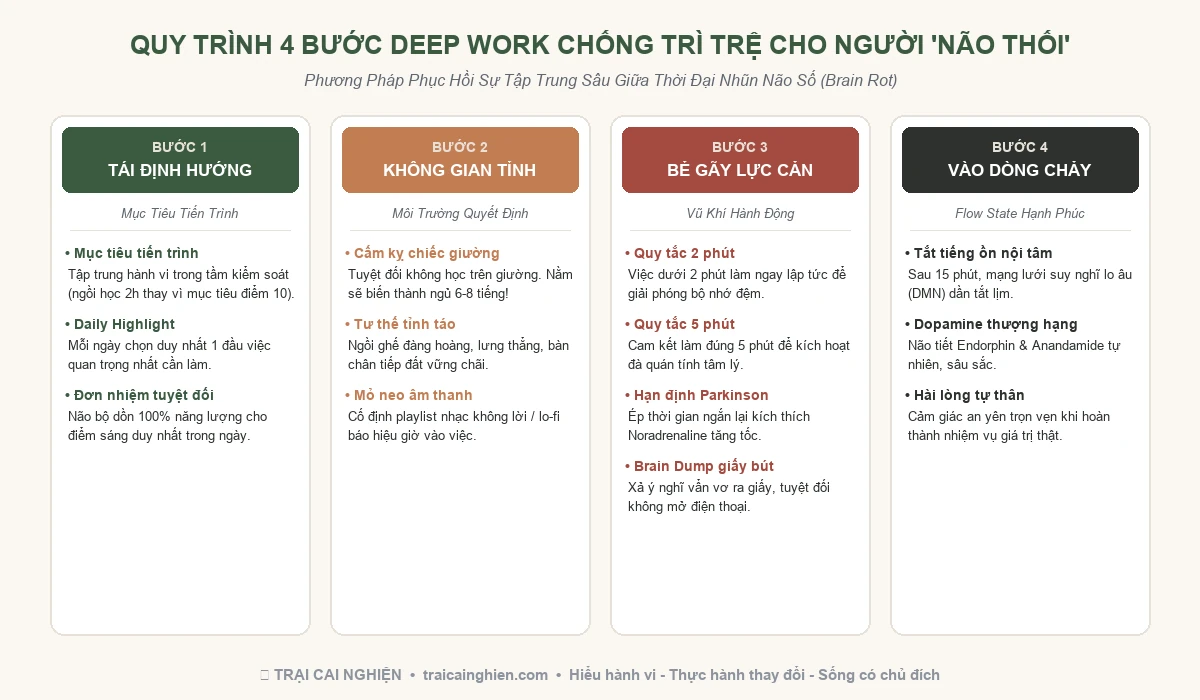
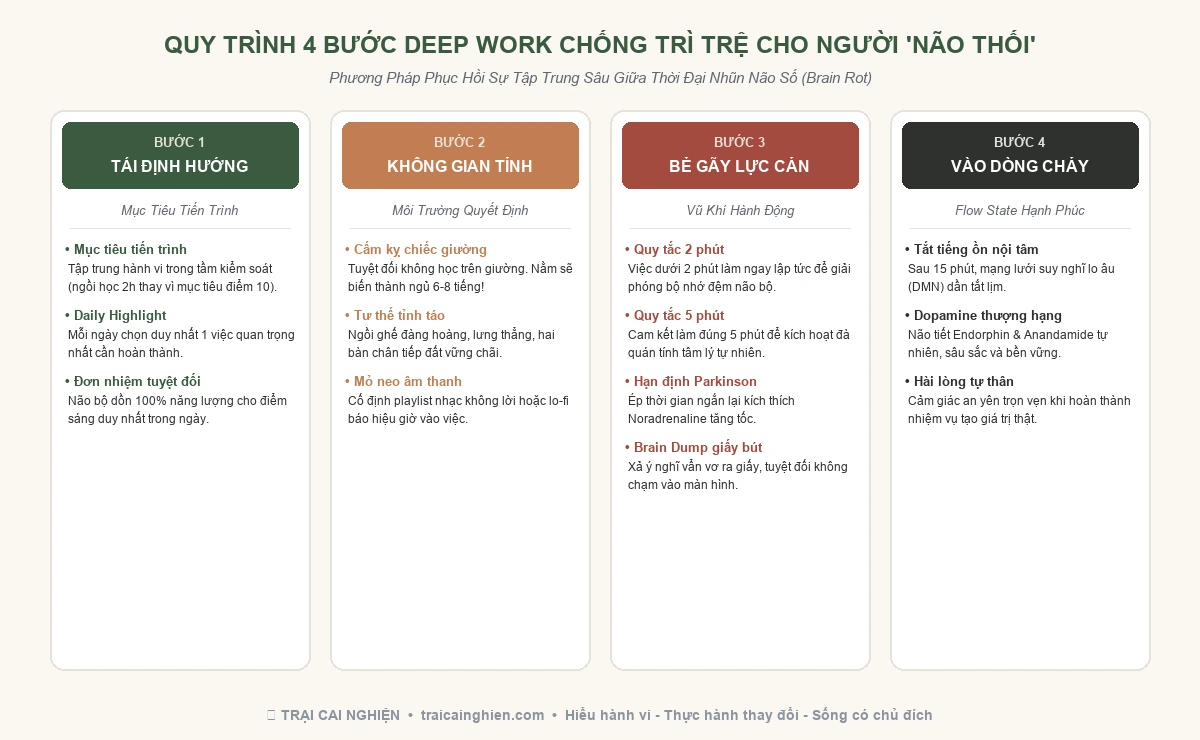
fix(visual): fix clipped infographic typography and apply authentic Zen watercolor thumbnail with cache-busted paths

diff --git a/src/data/articles.ts b/src/data/articles.ts
@@ -21,7 +21,7 @@ const rawArticles: Article[] = [
   "slug": "tang-hieu-suat-khi-nao-bi-thoi-deep-work-chong-tri-tre",
   "title": "Tăng Hiệu Suất Khi Não Bị 'Thối': Cách Deep Work Chống Trì Trệ",
   "excerpt": "Ngồi vào bàn 5 phút đã vô thức quẹt TikTok đến trưa? Bạn không thiếu ý chí, não bạn đang mắc kẹt trong bẫy 'bận rộn ảo' và nhũn não số. Đây là quy trình 4 bước Deep Work thực chiến...",
-  "thumbnail": "/images/articles/tang-hieu-suat-deep-work-trai-cai-nghien.webp",
+  "thumbnail": "/images/articles/tang-hieu-suat-deep-work-zen-watercolor.webp",
   "pillar": "Trụ cột 2: Lấy lại sự tập trung & Giải phóng xao nhãng",
   "pillarTag": "LayLaiSuTapTrung",
   "categories": [
@@ -40,7 +40,7 @@ const rawArticles: Article[] = [
   ],
   "date": "01/11/2026",
   "readTime": "12 phút đọc",
-  "content": "Chắc hẳn đã không dưới một lần bạn từng nếm trải cảm giác cay đắng này:\n\nBạn thức dậy với một quyết tâm hừng hực. Bạn dọn dẹp mặt bàn phẳng phiu, pha một cốc cà phê thơm lừng, mở cuốn sổ tay mới tinh và nắn nót viết ra bản kế hoạch 5 việc cần làm trong ngày. Bạn tự nhủ: *“Hôm nay nhất định mình sẽ làm việc như một con quái vật hiệu suất!”*\n\nThế nhưng, vừa ngồi vào ghế được 3 phút, bạn với tay lấy điện thoại định mở ứng dụng ghi chú để kiểm tra lại đầu việc. \n\nVà rồi, một phép thuật đen tối của thời đại số đã xảy ra: Ngón tay cái của bạn, theo một phản xạ cơ bắp vô thức đến rợn người, không hề bấm vào app ghi chú. Nó trượt nhẹ sang góc màn hình và bấm thẳng vào biểu tượng TikTok hoặc Facebook Reels. \n\nBạn xem một video ngắn về một chú mèo hài hước. Tiếp theo là một đoạn cắt phim hành động giật gân. Kế đến là màn hình chia đôi: nửa trên là một đoạn tấu hài châm biếm, nửa dưới là trò chơi *Subway Surfers* chạy lắt léo với âm thanh dồn dập. Bạn tự nhủ: *“Xem nốt video này thôi rồi làm.”*\n\nNhưng khi bạn giật mình ngước mắt lên nhìn đồng hồ: **Đã 11h45 trưa.** \n\nCốc cà phê trên bàn đã nguội ngắt từ bao giờ. Màn hình máy tính đã tự động tắt ngấm chuyển sang chế độ ngủ. Bụng bạn bắt đầu đói cồn cào, mắt cay xè, và một cảm giác nhục nhã, tội lỗi, tự ghét bỏ bản thân bắt đầu dâng lên ngập tràn trong lồng ngực:\n\n*“Tại sao mình lại tệ hại đến mức này? Tại sao một việc cỏn con như ngồi yên làm việc 1 tiếng đồng hồ mà mình cũng không làm nổi? Não mình bị thối rồi hay sao?”*\n\nNếu bạn đang ở trong tình trạng đó, Trại Cai Nghiện muốn ôm lấy bạn và nói một câu thành thật: **Bạn không hề đơn độc, và bạn không hề bị tâm thần hay suy đồi đạo đức.** \n\nChúng ta đang sống trong kỷ nguyên của đại dịch **\"Brain Rot\" (Nhũn não số)** — nơi mà các thuật toán triệu đô đã biến bộ não của một thế hệ trở nên nghiện ngập những kích thích dopamine rẻ tiền, mất khả năng chịu đựng sự buồn chán và rơi vào trạng thái trì trệ kinh niên.\n\nNhưng bạn không thể để sự nhũn não này hủy hoại tương lai của mình. Bài viết này không giáo điều, không sáo rỗng. Đây là bản cẩm nang thực chiến giúp bạn **tăng vọt hiệu suất làm việc sâu (Deep Work) ngay cả khi não bạn đang ở trạng thái “thối” nhất.**\n\n---\n\n### 1. Sự Thật Trần Trụi: \"Không Có Cái Quản Lý Nào Khổ Bằng Quản Lý Chính Mình\"\n\nRất nhiều người trẻ mơ ước được nghỉ việc văn phòng để ra ngoài làm tự do (Freelance) hoặc tự khởi nghiệp, bởi vì họ căm ghét cảm giác bị quản lý, bị soi mói deadline và bị áp đặt quy trình. Họ nghĩ rằng: *“Chỉ cần được tự làm chủ thời gian của mình, mình sẽ bùng nổ năng suất và sống tự do tự tại!”*\n\nThế nhưng, những ai đã từng trải qua giai đoạn tự làm tự ăn đều thấm thía một sự thật trớ trêu: **Cái giá của sự tự do là một thứ kỷ luật sắt đá và cô độc hơn gấp mười lần.**\n\nKhi bạn làm sếp quản lý người khác, bạn sợ nhất loại nhân viên nào?\n* Nhân viên lười biếng, nước đến chân mới nhảy?\n* Nhân viên hay chống đối, cãi bướng, thái độ lồi lõm?\n* Nhân viên hời hợt, làm việc cợt nhả, chuyên gia né tránh việc khó?\n\nVà khi bạn tự bước ra làm chủ chính mình, bạn bàng hoàng nhận ra: **Bản thân bạn hội tụ đủ 100% tất cả những thói hư tật xấu của đứa nhân viên tồi tệ nhất!**\n\nBạn tự giao việc cho mình lúc 8h sáng, và chính bạn là đứa tự thương lượng để dời đến 10h trưa. Bạn tự đặt mục tiêu tuần này phải xong dự án, và chính bạn là đứa tự ký giấy cho phép mình nằm dài lướt điện thoại vì *“hôm nay trời âm u quá không có cảm hứng”*. \n\nBạn không thể sa thải chính mình. Bạn cũng không thể trừ lương chính mình. Và đó là lý do vì sao hầu hết những người thất bại trong việc tự quản lý bản thân đều rơi vào chiếc bẫy nguy hiểm nhất của tâm lý: **Bận rộn ảo (Shallow Work).**\n\n---\n\n### 2. Hai Chiếc Bẫy Tâm Lý Đang Bóp Nghẹt Năng Lực Của Bạn\n\nTrước khi tìm kiếm phương thuốc, chúng ta phải bắt đúng bệnh. Sự trì trệ của bạn không phải do thiếu kỹ năng, mà xuất phát từ hai chiếc bẫy vô hình sau đây:\n\n#### Bẫy số 1: Hiện tượng \"Bận rộn ảo\" (The Shallow Work Illusion)\nDấu hiệu nhận biết điển hình của một người đang mắc bẫy này là gì? Họ luôn miệng than thở với bạn bè hoặc đăng story lên mạng xã hội: *“Dạo này bận vỡ mặt”, “Bận không kịp thở”, “Trăm công nghìn việc”*.\n\nNhưng nếu nhìn kỹ vào một ngày của họ, bạn sẽ thấy một tấn bi kịch:\n* Họ vẫn ngồi vào bàn làm việc đúng giờ.\n* Họ vẫn mở laptop, mở sách vở ra trước mặt.\n* Nhưng 80% năng lượng và thời gian của họ lại dồn vào những việc râu ria ngoài rìa: chỉnh sửa phông chữ cho đẹp, sắp xếp lại các thư mục trên màn hình máy tính, dọn dẹp mặt bàn học lần thứ ba trong ngày, lướt qua lướt lại hòm thư email, hoặc tìm kiếm tài liệu về lưu vào máy nhưng không bao giờ đọc đến.\n\nKhoa học thần kinh gọi đây là **Cơ chế phòng vệ ngụy tạo (Subconscious Avoidance)**. Bộ não của bạn rất sợ những công việc đòi hỏi tư duy sâu (như viết một bản kế hoạch kinh doanh, giải quyết một bài toán hóc búa, viết một bài luận dài). Những việc đó gây đau đớn cho não vì tiêu tốn lượng lớn năng lượng glucose. \n\nĐể trốn tránh cơn đau đó mà không bị cảm giác tội lỗi cắn rứt, não bộ sẽ tự động \"bày trò\" cho bạn làm những việc vụn vặt. Nó tạo ra một ảo tưởng ngọt ngào rằng: *“Nhìn xem, tôi vẫn đang ngồi làm việc chăm chỉ đấy chứ!”*. Nhưng đến cuối ngày, khối lượng công việc thực sự tạo ra giá trị vẫn bằng con số 0 tròn trĩnh.\n\n#### Bẫy số 2: Vòng lặp tội lỗi và sự củng cố thần kinh (The Guilt Loop)\nTrì hoãn không phải là vấn đề quản lý thời gian; **bản chất của trì hoãn là vấn đề điều hòa cảm xúc (Emotional Regulation).**\n\nKhi đứng trước một nhiệm vụ khó, cảm xúc đầu tiên xuất hiện trong bạn là: lo âu, sợ hãi, chán chường hoặc nghi ngờ năng lực bản thân. Để lập tức dập tắt cảm xúc tiêu cực đó, não bộ sẽ xui khiến bạn tìm đến một hành vi dễ dàng hơn: cầm điện thoại lên lướt mạng xã hội. \n\nLướt mạng xã hội lập tức bơm một lượng dopamine rẻ tiền vào não, xoa dịu cơn căng thẳng tạm thời. Nhưng ngay sau đó, một chuỗi phản ứng dây chuyền độc hại sẽ được kích hoạt:\n\n* **Bước 1 — Nhiệm vụ khó kích hoạt cảm xúc tiêu cực:** Cảm giác lo âu, sợ hãi, chán chường xuất hiện trước khối lượng công việc lớn.\n* **Bước 2 — Trì hoãn bằng Dopamine rẻ tiền:** Não bộ tự động tìm đến màn hình mạng xã hội để xoa dịu cơn căng thẳng tạm thời.\n* **Bước 3 — Cảm giác tội lỗi & Nhục nhã dâng trào:** Nhìn lại hàng giờ đồng hồ đã trôi qua vô ích, sự tự sỉ vả và mặc cảm tội lỗi trỗi dậy.\n* **Bước 4 — Căng thẳng tăng gấp đôi:** Deadline ngày càng cận kề trong khi khối lượng công việc vẫn nguyên vẹn.\n* **Bước 5 — Né tránh sâu hơn & Bỏ cuộc hoàn toàn:** Não bộ bị tê liệt trước áp lực, tiếp tục lao vào lướt điện thoại để trốn tránh thực tại cay đắng.\n\nCàng lặp lại vòng lặp này nhiều lần, các khớp thần kinh (synapse) giữa cảm xúc tiêu cực và hành vi lướt điện thoại càng được củng cố bền vững. Lâu dần, sự trì hoãn không còn là một lựa chọn nữa, mà đã biến thành **một phản xạ sinh học có điều kiện** của bạn.\n\n---\n\n### 3. Vạch Trần \"Chủ Nghĩa Cầu Toàn\" (Perfectionism) — Tấm Bình Phong Của Sự Hèn Nhát\n\nMột nguyên nhân ngầm nguy hiểm khác khiến não bạn bị đình trệ chính là **Chủ nghĩa cầu toàn**.\n\nNhiều người tự hào nhận mình là người cầu toàn, tôn sùng sự hoàn hảo. Nhưng trong tâm lý học hành vi, chủ nghĩa cầu toàn thực chất chỉ là một chiếc áo giáp hào nhoáng che đậy nỗi sợ hãi thất bại:\n* Bạn thích một cô gái, nhưng bạn sợ nếu nhắn tin làm quen mà không có kịch bản xuất sắc thì sẽ bị từ chối. Bạn trì hoãn hết tháng này qua năm khác, chỉ dám âm thầm thả tim story của cô ấy. Cho đến một ngày cô ấy lên xe hoa với người khác, bạn vẫn đang ngồi tự hỏi *“Liệu đã đến thời điểm thích hợp để mở lời chưa?”*.\n* Hồi còn đi học, bạn không chịu ôn thi nghiêm túc. Đến khi nhận điểm kém, bạn ngụy biện: *“Chẳng qua là tao lười không thèm học thôi, chứ tao mà học thì thủ khoa là cái chắc!”*. Bạn cố tình trì hoãn để tạo ra một cái cớ hoàn hảo bảo vệ cái tôi mỏng manh của mình: **Bởi vì nếu bạn dốc hết 100% sức lực mà vẫn thất bại, bạn sẽ phải đối diện với sự thật cay đắng rằng mình không giỏi như mình tưởng.**\n\nChủ nghĩa cầu toàn khiến bạn bị tê liệt ngay từ vạch xuất phát. Bạn không thể bắt đầu một bài viết vì sợ câu mở đầu không đủ hay. Bạn không dám bấm máy quay video vì sợ ánh sáng chưa đủ chuẩn Hollywood. \n\nHãy khắc cốt ghi tâm nguyên tắc này của Trại Cai Nghiện: **Hoàn thành tốt hơn hoàn hảo (Done is better than perfect). Một sản phẩm dở tệ nhưng đã hoàn thành vẫn có giá trị hơn gấp triệu lần một kiệt tác chỉ nằm trong trí tưởng tượng của bạn.**\n\n---\n\n### 4. Quy Trình 4 Bước Deep Work Thực Chiến Cho Người \"Não Thối\"\n\nĐể thoát khỏi vũng lầy này, bạn không thể trông chờ vào những câu khẩu hiệu truyền động lực sáo rỗng. Bạn cần một hệ thống cơ học, chính xác và có thể thực thi ngay lập tức. \n\nDưới đây là quy trình 4 bước được đúc kết từ kinh nghiệm thực chiến và khoa học nhận thức hiện đại:\n\n![Sơ đồ 4 Bước Deep Work Chống Trì Trệ Cho Người Não Thối](/images/articles/so-do-deep-work-cho-nguoi-nao-thoi.webp)\n*Sơ đồ 4 bước phục hồi khả năng làm việc sâu và phá vỡ lực cản tâm lý cho người trẻ.*\n\n#### Bước 1: Tái định hướng nhận thức — Mục tiêu tiến trình thay vì Mục tiêu kết quả\nSai lầm phổ biến nhất của người hay trì hoãn là đặt ra những mục tiêu kết quả nằm ngoài tầm kiểm soát tuyệt đối của bản thân:\n* *“Tuần này phải giảm 3kg”* (Kết quả phụ thuộc vào sự trao đổi chất của cơ thể).\n* *“Tháng này phải đạt 10.000 người theo dõi trên mạng xã hội”* (Kết quả phụ thuộc vào thuật toán phân phối).\n* *“Hôm nay phải viết một bài luận đạt điểm 10 tuyệt đối”* (Kết quả phụ thuộc vào tâm trạng của người chấm).\n\nKhi não bộ nhìn vào những mục tiêu mơ hồ và to lớn đó, nó sẽ cảm thấy bị áp đảo và kích hoạt cơ chế đình công. \n\n**Giải pháp:** Hãy chuyển dịch 100% sang **Mục tiêu tiến trình (Process Goals)** — những thứ nằm hoàn toàn trong tầm tay bạn:\n* Thay vì đặt mục tiêu giảm 3kg → Đặt mục tiêu: *Hôm nay ăn đúng 1.800 calo và đi bộ 30 phút*.\n* Thay vì đặt mục tiêu bài viết điểm 10 → Đặt mục tiêu: *Ngồi vào bàn viết đúng 2 trang giấy trong vòng 45 phút*.\n\n##### Phương pháp Daily Highlight (Điểm sáng duy nhất trong ngày)\nLấy cảm hứng từ cuốn sách *Make Time* của Jake Knapp và John Zeratsky (cựu nhân viên Google): \nMỗi buổi sáng, thay vì viết ra một bản to-do list dài dằng dặc 15 đầu việc khiến não bị tê liệt, bạn chỉ được phép chọn ra **DUY NHẤT MỘT ĐẦU VIỆC QUAN TRỌNG NHẤT** (gọi là Daily Highlight).\n\nHãy tự hỏi mình một câu hỏi sinh tử: \n> *“Nếu ngày hôm nay kết thúc và mình chỉ kịp hoàn thành đúng một việc duy nhất, thì việc nào sẽ khiến mình cảm thấy tự hào và ngày hôm nay được tính là thành công?”*\n\nKhoanh tròn việc đó lại. Toàn bộ tài nguyên nhận thức và năng lượng buổi sáng của bạn chỉ dành để xử lý việc này. Khi bạn đạt được trạng thái **Đơn nhiệm (Single-tasking)**, áp lực tâm lý sẽ biến mất, nhường chỗ cho sự tập trung thuần khiết.\n\n---\n\n#### Bước 2: Thiết lập không gian làm việc tỉnh thức\nMôi trường xung quanh quyết định hành vi mạnh hơn ý chí rất nhiều (nguyên lý trong *Atomic Habits* của James Clear).\n\n* **Quy tắc chiếc giường bất khả xâm phạm:**  \n  Rất nhiều bạn trẻ thích ôm laptop nằm trên giường để làm việc vì nghĩ rằng *“như thế này cho thoải mái, dễ chịu”*. Đây là một sai lầm chết người!  \n  Bộ não của bạn học theo cơ chế liên kết không gian: **Giường là nơi để ngủ và nghỉ ngơi.** Khi bạn mang công việc lên giường, não bạn sẽ rơi vào trạng thái lơ mơ, nửa tỉnh nửa mê. Quá trình mà bạn tưởng là \"nằm nhắm mắt suy ngẫm ý tưởng\" thực chất sẽ biến thành một giấc ngủ li bì 6–8 tiếng!  \n  *Nguyên tắc sắt đá:* Tuyệt đối không làm việc, không đọc sách trên giường. Muốn làm việc, hãy ngồi vào một chiếc ghế đàng hoàng, lưng thẳng, bàn chân chạm đất để duy trì sự tỉnh táo sinh học.\n* **Môi trường âm thanh cá nhân hóa:**  \n  Không có một công thức âm thanh chung cho tất cả mọi người. Có người thích nghe tiếng ồn trắng (tiếng mưa rơi, tiếng quán cà phê), có người thích nhạc Lo-fi không lời, và có những người (như các lập trình viên hoặc nhà văn) chỉ có thể tập trung trong sự im lặng tuyệt đối. Hãy thử nghiệm và chọn ra một danh sách bài hát (playlist) cố định. Khi giai điệu quen thuộc đó vang lên, nó sẽ đóng vai trò như một chiếc \"mỏ neo tâm lý\" báo hiệu cho não bộ: *Đã đến giờ vào guồng Deep Work!*\n\n---\n\n#### Bước 3: Bộ công cụ hành động phá vỡ lực cản ban đầu\nTrong vật lý học, lực ma sát nghỉ (lực để đẩy một vật đang đứng yên bắt đầu chuyển động) luôn lớn hơn rất nhiều so với lực ma sát trượt. Trong tâm lý học cũng vậy: **Bước khó khăn nhất của một công việc không phải là làm từ 1 lên 9, mà là nhấc mông lên đi từ 0 lên 1.**\n\nĐể phá vỡ lực cản ban đầu này, hãy sử dụng 4 vũ khí thực chiến sau:\n\n##### 1. Quy tắc 2 phút (The 2-Minute Rule)\nBất kỳ nhiệm vụ nào có thể hoàn thành trong vòng dưới 2 phút (trả lời một tin nhắn xác nhận, cất cuốn sách lên kệ, gửi một file tài liệu có sẵn), bạn **bắt buộc phải làm ngay lập tức.** \n\nViệc giải quyết dứt điểm những việc lặt vặt này sẽ giải phóng bộ nhớ đệm (Working Memory) của não bộ, không để những ý nghĩ vụn vặt lởn vởn chiếm dụng dung lượng chú ý của bạn.\n\n##### 2. Quy tắc 5 phút (The 5-Minute Trick)\nKhi đối mặt với một nhiệm vụ hóc búa mà bạn đang cực kỳ sợ hãi và muốn né tránh (viết báo cáo, học từ vựng tiếng Anh), hãy làm một thỏa thuận tâm lý với chính mình:\n> *“Tôi không cần phải làm xong việc này. Tôi chỉ cần ngồi xuống và làm đúng 5 phút thôi. Sau 5 phút, nếu thấy quá khó chịu, tôi hoàn toàn có quyền dừng lại và đi chơi.”*\n\n95% sự kỳ diệu sẽ xảy ra: **Sau khi đã vượt qua được 5 phút đầu tiên, đà quán tính tâm lý sẽ kéo bạn tiếp tục làm việc thêm 30 phút, 1 tiếng nữa mà không hề thấy mệt mỏi.** Cái bạn cần chỉ là một cú hích để vượt qua ngưỡng kháng cự ban đầu.\n\n##### 3. Định luật Parkinson & Hạn định giả (Artificial Deadlines)\nNhà sử học người Anh Cyril Northcote Parkinson từng đúc kết một định luật kinh điển:\n> *“Công việc luôn tự động nở ra để lấp đầy khoảng thời gian được ấn định cho nó.”*\n\nNếu bạn cho phép bản thân 1 tuần để viết một bài luận, bạn sẽ mất đúng 1 tuần (trong đó 6 ngày đầu nằm lướt TikTok và ngày cuối cùng vắt chân lên cổ cày xuyên đêm). Nhưng nếu bạn tự ép mình chỉ có **đúng 3 tiếng** để hoàn thành bản nháp đầu tiên, não bộ của bạn sẽ lập tức kích hoạt trạng thái báo động đỏ. \n\nLượng hormone **Noradrenaline** sẽ được giải phóng trong não, đồng tử giãn nhẹ, nhịp tim tăng, toàn bộ sự lơ đễnh biến mất và bạn sẽ tạo ra một hiệu suất bùng nổ để về đích trước thời hạn. Hãy tự đặt cho mình những \"deadline giả\" khắt khe hơn thực tế để ép bản thân vào kỷ luật.\n\n##### 4. Kỹ thuật \"Brain Dump\" bằng giấy bút\nTrong quá trình làm việc sâu, chắc chắn sẽ có lúc những ý nghĩ vẩn vơ bất thình lình nhảy múa trong đầu bạn: *“Không biết thằng bạn thân dạo này thế nào?”, “Tối nay ăn gì nhỉ?”, “Hình như hôm qua mình chưa trả lời mail của khách?”*.\n\nNếu bạn cố đè nén suy nghĩ đó, bạn sẽ bị phân tâm ngầm. Nhưng nếu bạn mở điện thoại hoặc máy tính lên để ghi chú lại, ngón tay bạn sẽ trượt ngay vào Facebook hoặc TikTok!\n\n**Giải pháp của người thông thái:** Luôn để một tờ giấy nháp trắng và một chiếc bút mực ngay cạnh bàn phím. Khi một ý nghĩ xao nhãng hiện lên, hãy viết ngay nó xuống tờ giấy nháp trong 3 giây, rồi lập tức quay trở lại màn hình công việc. \n\nKhi hành động viết tay hoàn tất, bộ não sinh học sẽ nhận được một tín hiệu an tâm: *“Ý nghĩ này đã được lưu trữ an toàn, không bị quên nữa.”* Nó sẽ ngoan ngoãn buông bỏ sự lo âu đó và cho phép bạn tiếp tục duy trì dòng chảy tập trung.\n\n---\n\n#### Bước 4: Đắm chìm vào dòng chảy (Flow State) và tìm thấy sự an yên nội tại\nKhi bạn đã vượt qua được 15 phút đầu tiên của một phiên làm việc sâu bằng các công cụ trên, một sự chuyển dịch sinh hóa kỳ diệu sẽ diễn ra bên trong vỏ não tiền trán:\n* Các mạng lưới chú ý mặc định (Default Mode Network - nơi sản sinh ra những suy nghĩ lo âu, tự trách móc, so sánh bản thân) sẽ dần dần tắt lịm.\n* Các chất dẫn truyền thần kinh hạnh phúc tự nhiên: **Dopamine, Serotonin, Endorphin và Anandamide** sẽ được tiết ra đồng thời.\n\nBạn bước vào trạng thái **Dòng chảy (Flow State)** — nơi ranh giới giữa bạn và công việc bị xóa nhòa, thời gian dường như ngưng đọng, và bạn cảm nhận được một niềm hân hoan thuần khiết trong từng dòng chữ, từng dòng code hay từng trang sách bạn lật.\n\nCảm giác thỏa mãn sau khi hoàn thành một phiên Deep Work 90 phút là một thứ dopamine thượng hạng, bền vững và sâu sắc. Nó hoàn toàn trái ngược với thứ dopamine rẻ tiền, nhớp nháp và rỗng tuếch mà những video ngắn trên TikTok mang lại cho bạn.\n\n---\n\n### 5. Lời Nhắn Gửi Từ Trại Cai Nghiện\n\nBạn thân mến,\n\nThừa nhận rằng bộ não của mình đang bị \"thối\", đang bị thuật toán hủy hoại không phải là một sự sỉ nhục. Đó là bước đi dũng cảm đầu tiên của một con người tỉnh thức.\n\nBạn không thể thay đổi một thực tại mà bạn luôn tìm cách ngụy biện và trốn tránh. Đừng tự trách mình vì những buổi sáng lỡ quẹt điện thoại vô thức. Đừng dằn vặt vì những lần trượt chân trong quá khứ. \n\nHôm nay là một ngày hoàn toàn mới. Hãy cất chiếc điện thoại sang một căn phòng khác. Ngồi ngay ngắn vào chiếc ghế gỗ. Lấy một tờ giấy trắng đặt cạnh bàn tay. Chọn ra một việc quan trọng duy nhất, hít một hơi thật sâu, và nói với bản thân: \n\n*“Tôi chỉ làm đúng 5 phút thôi.”*\n\nChỉ cần bạn dám bước một bước chân nhỏ đầu tiên, con người tươi mới, thông minh và tràn đầy nội lực mà bạn từng sở hữu sẽ tự khắc thức tỉnh và đưa bạn trở về phiên bản tốt nhất của chính mình.\n\n---\n\n### 📌 NHỮNG ĐIỂM CHÍNH (KEY TAKEAWAYS)\n\n1. **Đại dịch \"Brain Rot\" (Nhũn não số):** Sự kiệt quệ sau khi lướt điện thoại là có thật. Các thuật toán video ngắn giật gân bòn rút dopamine và tàn phá khả năng tập trung sâu của một thế hệ.\n2. **Khổ nhất là tự quản lý chính mình:** Tự do không phải là làm việc tùy hứng. Người làm tự do đòi hỏi một kỷ luật thép để quản lý chính con người lười biếng và hay chống đối bên trong mình.\n3. **Chiếc bẫy \"Bận rộn ảo\" (Shallow Work):** Não bộ thường chọn làm những việc râu ria (dọn bàn, check mail, sắp xếp tài liệu) để né tránh công việc khó đòi hỏi tư duy sâu. Nhận diện bận rộn ảo là bước đầu để tỉnh thức.\n4. **Trì hoãn là vấn đề cảm xúc:** Bạn trì hoãn vì công việc khó kích hoạt cảm xúc lo âu, chán nản. Lướt mạng xã hội là cơ chế né tránh cảm xúc tiêu cực tạm thời nhưng tạo ra vòng lặp tội lỗi và làm kiệt quệ tinh thần.\n5. **Chủ nghĩa cầu toàn là sự hèn nhát:** Sợ sai, sợ thất bại khiến bạn không dám bắt đầu. Hãy nhớ: Hoàn thành luôn tốt hơn hoàn hảo. Một bản thảo dở tệ vẫn giá trị hơn một kiệt tác chỉ nằm trong đầu.\n6. **Bộ công cụ 4 bước Deep Work thực chiến:**\n   * *Mục tiêu tiến trình & Daily Highlight:* Chọn duy nhất 1 việc quan trọng nhất trong ngày để đưa não vào trạng thái đơn nhiệm.\n   * *Không gian tỉnh thức:* Tuyệt đối không làm việc trên giường; giữ tư thế ngồi tỉnh táo.\n   * *Quy tắc 2 phút & 5 phút:* Việc dưới 2 phút làm ngay; việc khó cam kết làm đúng 5 phút để kích hoạt đà quán tính tâm lý.\n   * *Định luật Parkinson & Brain Dump:* Tự tạo hạn định giả khắt khe để ép bản thân vào guồng; xả rác tâm trí bằng giấy bút để không bị phân tâm."
+  "content": "Chắc hẳn đã không dưới một lần bạn từng nếm trải cảm giác cay đắng này:\n\nBạn thức dậy với một quyết tâm hừng hực. Bạn dọn dẹp mặt bàn phẳng phiu, pha một cốc cà phê thơm lừng, mở cuốn sổ tay mới tinh và nắn nót viết ra bản kế hoạch 5 việc cần làm trong ngày. Bạn tự nhủ: *“Hôm nay nhất định mình sẽ làm việc như một con quái vật hiệu suất!”*\n\nThế nhưng, vừa ngồi vào ghế được 3 phút, bạn với tay lấy điện thoại định mở ứng dụng ghi chú để kiểm tra lại đầu việc. \n\nVà rồi, một phép thuật đen tối của thời đại số đã xảy ra: Ngón tay cái của bạn, theo một phản xạ cơ bắp vô thức đến rợn người, không hề bấm vào app ghi chú. Nó trượt nhẹ sang góc màn hình và bấm thẳng vào biểu tượng TikTok hoặc Facebook Reels. \n\nBạn xem một video ngắn về một chú mèo hài hước. Tiếp theo là một đoạn cắt phim hành động giật gân. Kế đến là màn hình chia đôi: nửa trên là một đoạn tấu hài châm biếm, nửa dưới là trò chơi *Subway Surfers* chạy lắt léo với âm thanh dồn dập. Bạn tự nhủ: *“Xem nốt video này thôi rồi làm.”*\n\nNhưng khi bạn giật mình ngước mắt lên nhìn đồng hồ: **Đã 11h45 trưa.** \n\nCốc cà phê trên bàn đã nguội ngắt từ bao giờ. Màn hình máy tính đã tự động tắt ngấm chuyển sang chế độ ngủ. Bụng bạn bắt đầu đói cồn cào, mắt cay xè, và một cảm giác nhục nhã, tội lỗi, tự ghét bỏ bản thân bắt đầu dâng lên ngập tràn trong lồng ngực:\n\n*“Tại sao mình lại tệ hại đến mức này? Tại sao một việc cỏn con như ngồi yên làm việc 1 tiếng đồng hồ mà mình cũng không làm nổi? Não mình bị thối rồi hay sao?”*\n\nNếu bạn đang ở trong tình trạng đó, Trại Cai Nghiện muốn ôm lấy bạn và nói một câu thành thật: **Bạn không hề đơn độc, và bạn không hề bị tâm thần hay suy đồi đạo đức.** \n\nChúng ta đang sống trong kỷ nguyên của đại dịch **\"Brain Rot\" (Nhũn não số)** — nơi mà các thuật toán triệu đô đã biến bộ não của một thế hệ trở nên nghiện ngập những kích thích dopamine rẻ tiền, mất khả năng chịu đựng sự buồn chán và rơi vào trạng thái trì trệ kinh niên.\n\nNhưng bạn không thể để sự nhũn não này hủy hoại tương lai của mình. Bài viết này không giáo điều, không sáo rỗng. Đây là bản cẩm nang thực chiến giúp bạn **tăng vọt hiệu suất làm việc sâu (Deep Work) ngay cả khi não bạn đang ở trạng thái “thối” nhất.**\n\n---\n\n### 1. Sự Thật Trần Trụi: \"Không Có Cái Quản Lý Nào Khổ Bằng Quản Lý Chính Mình\"\n\nRất nhiều người trẻ mơ ước được nghỉ việc văn phòng để ra ngoài làm tự do (Freelance) hoặc tự khởi nghiệp, bởi vì họ căm ghét cảm giác bị quản lý, bị soi mói deadline và bị áp đặt quy trình. Họ nghĩ rằng: *“Chỉ cần được tự làm chủ thời gian của mình, mình sẽ bùng nổ năng suất và sống tự do tự tại!”*\n\nThế nhưng, những ai đã từng trải qua giai đoạn tự làm tự ăn đều thấm thía một sự thật trớ trêu: **Cái giá của sự tự do là một thứ kỷ luật sắt đá và cô độc hơn gấp mười lần.**\n\nKhi bạn làm sếp quản lý người khác, bạn sợ nhất loại nhân viên nào?\n* Nhân viên lười biếng, nước đến chân mới nhảy?\n* Nhân viên hay chống đối, cãi bướng, thái độ lồi lõm?\n* Nhân viên hời hợt, làm việc cợt nhả, chuyên gia né tránh việc khó?\n\nVà khi bạn tự bước ra làm chủ chính mình, bạn bàng hoàng nhận ra: **Bản thân bạn hội tụ đủ 100% tất cả những thói hư tật xấu của đứa nhân viên tồi tệ nhất!**\n\nBạn tự giao việc cho mình lúc 8h sáng, và chính bạn là đứa tự thương lượng để dời đến 10h trưa. Bạn tự đặt mục tiêu tuần này phải xong dự án, và chính bạn là đứa tự ký giấy cho phép mình nằm dài lướt điện thoại vì *“hôm nay trời âm u quá không có cảm hứng”*. \n\nBạn không thể sa thải chính mình. Bạn cũng không thể trừ lương chính mình. Và đó là lý do vì sao hầu hết những người thất bại trong việc tự quản lý bản thân đều rơi vào chiếc bẫy nguy hiểm nhất của tâm lý: **Bận rộn ảo (Shallow Work).**\n\n---\n\n### 2. Hai Chiếc Bẫy Tâm Lý Đang Bóp Nghẹt Năng Lực Của Bạn\n\nTrước khi tìm kiếm phương thuốc, chúng ta phải bắt đúng bệnh. Sự trì trệ của bạn không phải do thiếu kỹ năng, mà xuất phát từ hai chiếc bẫy vô hình sau đây:\n\n#### Bẫy số 1: Hiện tượng \"Bận rộn ảo\" (The Shallow Work Illusion)\nDấu hiệu nhận biết điển hình của một người đang mắc bẫy này là gì? Họ luôn miệng than thở với bạn bè hoặc đăng story lên mạng xã hội: *“Dạo này bận vỡ mặt”, “Bận không kịp thở”, “Trăm công nghìn việc”*.\n\nNhưng nếu nhìn kỹ vào một ngày của họ, bạn sẽ thấy một tấn bi kịch:\n* Họ vẫn ngồi vào bàn làm việc đúng giờ.\n* Họ vẫn mở laptop, mở sách vở ra trước mặt.\n* Nhưng 80% năng lượng và thời gian của họ lại dồn vào những việc râu ria ngoài rìa: chỉnh sửa phông chữ cho đẹp, sắp xếp lại các thư mục trên màn hình máy tính, dọn dẹp mặt bàn học lần thứ ba trong ngày, lướt qua lướt lại hòm thư email, hoặc tìm kiếm tài liệu về lưu vào máy nhưng không bao giờ đọc đến.\n\nKhoa học thần kinh gọi đây là **Cơ chế phòng vệ ngụy tạo (Subconscious Avoidance)**. Bộ não của bạn rất sợ những công việc đòi hỏi tư duy sâu (như viết một bản kế hoạch kinh doanh, giải quyết một bài toán hóc búa, viết một bài luận dài). Những việc đó gây đau đớn cho não vì tiêu tốn lượng lớn năng lượng glucose. \n\nĐể trốn tránh cơn đau đó mà không bị cảm giác tội lỗi cắn rứt, não bộ sẽ tự động \"bày trò\" cho bạn làm những việc vụn vặt. Nó tạo ra một ảo tưởng ngọt ngào rằng: *“Nhìn xem, tôi vẫn đang ngồi làm việc chăm chỉ đấy chứ!”*. Nhưng đến cuối ngày, khối lượng công việc thực sự tạo ra giá trị vẫn bằng con số 0 tròn trĩnh.\n\n#### Bẫy số 2: Vòng lặp tội lỗi và sự củng cố thần kinh (The Guilt Loop)\nTrì hoãn không phải là vấn đề quản lý thời gian; **bản chất của trì hoãn là vấn đề điều hòa cảm xúc (Emotional Regulation).**\n\nKhi đứng trước một nhiệm vụ khó, cảm xúc đầu tiên xuất hiện trong bạn là: lo âu, sợ hãi, chán chường hoặc nghi ngờ năng lực bản thân. Để lập tức dập tắt cảm xúc tiêu cực đó, não bộ sẽ xui khiến bạn tìm đến một hành vi dễ dàng hơn: cầm điện thoại lên lướt mạng xã hội. \n\nLướt mạng xã hội lập tức bơm một lượng dopamine rẻ tiền vào não, xoa dịu cơn căng thẳng tạm thời. Nhưng ngay sau đó, một chuỗi phản ứng dây chuyền độc hại sẽ được kích hoạt:\n\n* **Bước 1 — Nhiệm vụ khó kích hoạt cảm xúc tiêu cực:** Cảm giác lo âu, sợ hãi, chán chường xuất hiện trước khối lượng công việc lớn.\n* **Bước 2 — Trì hoãn bằng Dopamine rẻ tiền:** Não bộ tự động tìm đến màn hình mạng xã hội để xoa dịu cơn căng thẳng tạm thời.\n* **Bước 3 — Cảm giác tội lỗi & Nhục nhã dâng trào:** Nhìn lại hàng giờ đồng hồ đã trôi qua vô ích, sự tự sỉ vả và mặc cảm tội lỗi trỗi dậy.\n* **Bước 4 — Căng thẳng tăng gấp đôi:** Deadline ngày càng cận kề trong khi khối lượng công việc vẫn nguyên vẹn.\n* **Bước 5 — Né tránh sâu hơn & Bỏ cuộc hoàn toàn:** Não bộ bị tê liệt trước áp lực, tiếp tục lao vào lướt điện thoại để trốn tránh thực tại cay đắng.\n\nCàng lặp lại vòng lặp này nhiều lần, các khớp thần kinh (synapse) giữa cảm xúc tiêu cực và hành vi lướt điện thoại càng được củng cố bền vững. Lâu dần, sự trì hoãn không còn là một lựa chọn nữa, mà đã biến thành **một phản xạ sinh học có điều kiện** của bạn.\n\n---\n\n### 3. Vạch Trần \"Chủ Nghĩa Cầu Toàn\" (Perfectionism) — Tấm Bình Phong Của Sự Hèn Nhát\n\nMột nguyên nhân ngầm nguy hiểm khác khiến não bạn bị đình trệ chính là **Chủ nghĩa cầu toàn**.\n\nNhiều người tự hào nhận mình là người cầu toàn, tôn sùng sự hoàn hảo. Nhưng trong tâm lý học hành vi, chủ nghĩa cầu toàn thực chất chỉ là một chiếc áo giáp hào nhoáng che đậy nỗi sợ hãi thất bại:\n* Bạn thích một cô gái, nhưng bạn sợ nếu nhắn tin làm quen mà không có kịch bản xuất sắc thì sẽ bị từ chối. Bạn trì hoãn hết tháng này qua năm khác, chỉ dám âm thầm thả tim story của cô ấy. Cho đến một ngày cô ấy lên xe hoa với người khác, bạn vẫn đang ngồi tự hỏi *“Liệu đã đến thời điểm thích hợp để mở lời chưa?”*.\n* Hồi còn đi học, bạn không chịu ôn thi nghiêm túc. Đến khi nhận điểm kém, bạn ngụy biện: *“Chẳng qua là tao lười không thèm học thôi, chứ tao mà học thì thủ khoa là cái chắc!”*. Bạn cố tình trì hoãn để tạo ra một cái cớ hoàn hảo bảo vệ cái tôi mỏng manh của mình: **Bởi vì nếu bạn dốc hết 100% sức lực mà vẫn thất bại, bạn sẽ phải đối diện với sự thật cay đắng rằng mình không giỏi như mình tưởng.**\n\nChủ nghĩa cầu toàn khiến bạn bị tê liệt ngay từ vạch xuất phát. Bạn không thể bắt đầu một bài viết vì sợ câu mở đầu không đủ hay. Bạn không dám bấm máy quay video vì sợ ánh sáng chưa đủ chuẩn Hollywood. \n\nHãy khắc cốt ghi tâm nguyên tắc này của Trại Cai Nghiện: **Hoàn thành tốt hơn hoàn hảo (Done is better than perfect). Một sản phẩm dở tệ nhưng đã hoàn thành vẫn có giá trị hơn gấp triệu lần một kiệt tác chỉ nằm trong trí tưởng tượng của bạn.**\n\n---\n\n### 4. Quy Trình 4 Bước Deep Work Thực Chiến Cho Người \"Não Thối\"\n\nĐể thoát khỏi vũng lầy này, bạn không thể trông chờ vào những câu khẩu hiệu truyền động lực sáo rỗng. Bạn cần một hệ thống cơ học, chính xác và có thể thực thi ngay lập tức. \n\nDưới đây là quy trình 4 bước được đúc kết từ kinh nghiệm thực chiến và khoa học nhận thức hiện đại:\n\n![Sơ đồ 4 Bước Deep Work Chống Trì Trệ Cho Người Não Thối](/images/articles/so-do-quy-trinh-deep-work-chong-tri-tre-v2.webp)\n*Sơ đồ 4 bước phục hồi khả năng làm việc sâu và phá vỡ lực cản tâm lý cho người trẻ.*\n\n#### Bước 1: Tái định hướng nhận thức — Mục tiêu tiến trình thay vì Mục tiêu kết quả\nSai lầm phổ biến nhất của người hay trì hoãn là đặt ra những mục tiêu kết quả nằm ngoài tầm kiểm soát tuyệt đối của bản thân:\n* *“Tuần này phải giảm 3kg”* (Kết quả phụ thuộc vào sự trao đổi chất của cơ thể).\n* *“Tháng này phải đạt 10.000 người theo dõi trên mạng xã hội”* (Kết quả phụ thuộc vào thuật toán phân phối).\n* *“Hôm nay phải viết một bài luận đạt điểm 10 tuyệt đối”* (Kết quả phụ thuộc vào tâm trạng của người chấm).\n\nKhi não bộ nhìn vào những mục tiêu mơ hồ và to lớn đó, nó sẽ cảm thấy bị áp đảo và kích hoạt cơ chế đình công. \n\n**Giải pháp:** Hãy chuyển dịch 100% sang **Mục tiêu tiến trình (Process Goals)** — những thứ nằm hoàn toàn trong tầm tay bạn:\n* Thay vì đặt mục tiêu giảm 3kg → Đặt mục tiêu: *Hôm nay ăn đúng 1.800 calo và đi bộ 30 phút*.\n* Thay vì đặt mục tiêu bài viết điểm 10 → Đặt mục tiêu: *Ngồi vào bàn viết đúng 2 trang giấy trong vòng 45 phút*.\n\n##### Phương pháp Daily Highlight (Điểm sáng duy nhất trong ngày)\nLấy cảm hứng từ cuốn sách *Make Time* của Jake Knapp và John Zeratsky (cựu nhân viên Google): \nMỗi buổi sáng, thay vì viết ra một bản to-do list dài dằng dặc 15 đầu việc khiến não bị tê liệt, bạn chỉ được phép chọn ra **DUY NHẤT MỘT ĐẦU VIỆC QUAN TRỌNG NHẤT** (gọi là Daily Highlight).\n\nHãy tự hỏi mình một câu hỏi sinh tử: \n> *“Nếu ngày hôm nay kết thúc và mình chỉ kịp hoàn thành đúng một việc duy nhất, thì việc nào sẽ khiến mình cảm thấy tự hào và ngày hôm nay được tính là thành công?”*\n\nKhoanh tròn việc đó lại. Toàn bộ tài nguyên nhận thức và năng lượng buổi sáng của bạn chỉ dành để xử lý việc này. Khi bạn đạt được trạng thái **Đơn nhiệm (Single-tasking)**, áp lực tâm lý sẽ biến mất, nhường chỗ cho sự tập trung thuần khiết.\n\n---\n\n#### Bước 2: Thiết lập không gian làm việc tỉnh thức\nMôi trường xung quanh quyết định hành vi mạnh hơn ý chí rất nhiều (nguyên lý trong *Atomic Habits* của James Clear).\n\n* **Quy tắc chiếc giường bất khả xâm phạm:**  \n  Rất nhiều bạn trẻ thích ôm laptop nằm trên giường để làm việc vì nghĩ rằng *“như thế này cho thoải mái, dễ chịu”*. Đây là một sai lầm chết người!  \n  Bộ não của bạn học theo cơ chế liên kết không gian: **Giường là nơi để ngủ và nghỉ ngơi.** Khi bạn mang công việc lên giường, não bạn sẽ rơi vào trạng thái lơ mơ, nửa tỉnh nửa mê. Quá trình mà bạn tưởng là \"nằm nhắm mắt suy ngẫm ý tưởng\" thực chất sẽ biến thành một giấc ngủ li bì 6–8 tiếng!  \n  *Nguyên tắc sắt đá:* Tuyệt đối không làm việc, không đọc sách trên giường. Muốn làm việc, hãy ngồi vào một chiếc ghế đàng hoàng, lưng thẳng, bàn chân chạm đất để duy trì sự tỉnh táo sinh học.\n* **Môi trường âm thanh cá nhân hóa:**  \n  Không có một công thức âm thanh chung cho tất cả mọi người. Có người thích nghe tiếng ồn trắng (tiếng mưa rơi, tiếng quán cà phê), có người thích nhạc Lo-fi không lời, và có những người (như các lập trình viên hoặc nhà văn) chỉ có thể tập trung trong sự im lặng tuyệt đối. Hãy thử nghiệm và chọn ra một danh sách bài hát (playlist) cố định. Khi giai điệu quen thuộc đó vang lên, nó sẽ đóng vai trò như một chiếc \"mỏ neo tâm lý\" báo hiệu cho não bộ: *Đã đến giờ vào guồng Deep Work!*\n\n---\n\n#### Bước 3: Bộ công cụ hành động phá vỡ lực cản ban đầu\nTrong vật lý học, lực ma sát nghỉ (lực để đẩy một vật đang đứng yên bắt đầu chuyển động) luôn lớn hơn rất nhiều so với lực ma sát trượt. Trong tâm lý học cũng vậy: **Bước khó khăn nhất của một công việc không phải là làm từ 1 lên 9, mà là nhấc mông lên đi từ 0 lên 1.**\n\nĐể phá vỡ lực cản ban đầu này, hãy sử dụng 4 vũ khí thực chiến sau:\n\n##### 1. Quy tắc 2 phút (The 2-Minute Rule)\nBất kỳ nhiệm vụ nào có thể hoàn thành trong vòng dưới 2 phút (trả lời một tin nhắn xác nhận, cất cuốn sách lên kệ, gửi một file tài liệu có sẵn), bạn **bắt buộc phải làm ngay lập tức.** \n\nViệc giải quyết dứt điểm những việc lặt vặt này sẽ giải phóng bộ nhớ đệm (Working Memory) của não bộ, không để những ý nghĩ vụn vặt lởn vởn chiếm dụng dung lượng chú ý của bạn.\n\n##### 2. Quy tắc 5 phút (The 5-Minute Trick)\nKhi đối mặt với một nhiệm vụ hóc búa mà bạn đang cực kỳ sợ hãi và muốn né tránh (viết báo cáo, học từ vựng tiếng Anh), hãy làm một thỏa thuận tâm lý với chính mình:\n> *“Tôi không cần phải làm xong việc này. Tôi chỉ cần ngồi xuống và làm đúng 5 phút thôi. Sau 5 phút, nếu thấy quá khó chịu, tôi hoàn toàn có quyền dừng lại và đi chơi.”*\n\n95% sự kỳ diệu sẽ xảy ra: **Sau khi đã vượt qua được 5 phút đầu tiên, đà quán tính tâm lý sẽ kéo bạn tiếp tục làm việc thêm 30 phút, 1 tiếng nữa mà không hề thấy mệt mỏi.** Cái bạn cần chỉ là một cú hích để vượt qua ngưỡng kháng cự ban đầu.\n\n##### 3. Định luật Parkinson & Hạn định giả (Artificial Deadlines)\nNhà sử học người Anh Cyril Northcote Parkinson từng đúc kết một định luật kinh điển:\n> *“Công việc luôn tự động nở ra để lấp đầy khoảng thời gian được ấn định cho nó.”*\n\nNếu bạn cho phép bản thân 1 tuần để viết một bài luận, bạn sẽ mất đúng 1 tuần (trong đó 6 ngày đầu nằm lướt TikTok và ngày cuối cùng vắt chân lên cổ cày xuyên đêm). Nhưng nếu bạn tự ép mình chỉ có **đúng 3 tiếng** để hoàn thành bản nháp đầu tiên, não bộ của bạn sẽ lập tức kích hoạt trạng thái báo động đỏ. \n\nLượng hormone **Noradrenaline** sẽ được giải phóng trong não, đồng tử giãn nhẹ, nhịp tim tăng, toàn bộ sự lơ đễnh biến mất và bạn sẽ tạo ra một hiệu suất bùng nổ để về đích trước thời hạn. Hãy tự đặt cho mình những \"deadline giả\" khắt khe hơn thực tế để ép bản thân vào kỷ luật.\n\n##### 4. Kỹ thuật \"Brain Dump\" bằng giấy bút\nTrong quá trình làm việc sâu, chắc chắn sẽ có lúc những ý nghĩ vẩn vơ bất thình lình nhảy múa trong đầu bạn: *“Không biết thằng bạn thân dạo này thế nào?”, “Tối nay ăn gì nhỉ?”, “Hình như hôm qua mình chưa trả lời mail của khách?”*.\n\nNếu bạn cố đè nén suy nghĩ đó, bạn sẽ bị phân tâm ngầm. Nhưng nếu bạn mở điện thoại hoặc máy tính lên để ghi chú lại, ngón tay bạn sẽ trượt ngay vào Facebook hoặc TikTok!\n\n**Giải pháp của người thông thái:** Luôn để một tờ giấy nháp trắng và một chiếc bút mực ngay cạnh bàn phím. Khi một ý nghĩ xao nhãng hiện lên, hãy viết ngay nó xuống tờ giấy nháp trong 3 giây, rồi lập tức quay trở lại màn hình công việc. \n\nKhi hành động viết tay hoàn tất, bộ não sinh học sẽ nhận được một tín hiệu an tâm: *“Ý nghĩ này đã được lưu trữ an toàn, không bị quên nữa.”* Nó sẽ ngoan ngoãn buông bỏ sự lo âu đó và cho phép bạn tiếp tục duy trì dòng chảy tập trung.\n\n---\n\n#### Bước 4: Đắm chìm vào dòng chảy (Flow State) và tìm thấy sự an yên nội tại\nKhi bạn đã vượt qua được 15 phút đầu tiên của một phiên làm việc sâu bằng các công cụ trên, một sự chuyển dịch sinh hóa kỳ diệu sẽ diễn ra bên trong vỏ não tiền trán:\n* Các mạng lưới chú ý mặc định (Default Mode Network - nơi sản sinh ra những suy nghĩ lo âu, tự trách móc, so sánh bản thân) sẽ dần dần tắt lịm.\n* Các chất dẫn truyền thần kinh hạnh phúc tự nhiên: **Dopamine, Serotonin, Endorphin và Anandamide** sẽ được tiết ra đồng thời.\n\nBạn bước vào trạng thái **Dòng chảy (Flow State)** — nơi ranh giới giữa bạn và công việc bị xóa nhòa, thời gian dường như ngưng đọng, và bạn cảm nhận được một niềm hân hoan thuần khiết trong từng dòng chữ, từng dòng code hay từng trang sách bạn lật.\n\nCảm giác thỏa mãn sau khi hoàn thành một phiên Deep Work 90 phút là một thứ dopamine thượng hạng, bền vững và sâu sắc. Nó hoàn toàn trái ngược với thứ dopamine rẻ tiền, nhớp nháp và rỗng tuếch mà những video ngắn trên TikTok mang lại cho bạn.\n\n---\n\n### 5. Lời Nhắn Gửi Từ Trại Cai Nghiện\n\nBạn thân mến,\n\nThừa nhận rằng bộ não của mình đang bị \"thối\", đang bị thuật toán hủy hoại không phải là một sự sỉ nhục. Đó là bước đi dũng cảm đầu tiên của một con người tỉnh thức.\n\nBạn không thể thay đổi một thực tại mà bạn luôn tìm cách ngụy biện và trốn tránh. Đừng tự trách mình vì những buổi sáng lỡ quẹt điện thoại vô thức. Đừng dằn vặt vì những lần trượt chân trong quá khứ. \n\nHôm nay là một ngày hoàn toàn mới. Hãy cất chiếc điện thoại sang một căn phòng khác. Ngồi ngay ngắn vào chiếc ghế gỗ. Lấy một tờ giấy trắng đặt cạnh bàn tay. Chọn ra một việc quan trọng duy nhất, hít một hơi thật sâu, và nói với bản thân: \n\n*“Tôi chỉ làm đúng 5 phút thôi.”*\n\nChỉ cần bạn dám bước một bước chân nhỏ đầu tiên, con người tươi mới, thông minh và tràn đầy nội lực mà bạn từng sở hữu sẽ tự khắc thức tỉnh và đưa bạn trở về phiên bản tốt nhất của chính mình.\n\n---\n\n### 📌 NHỮNG ĐIỂM CHÍNH (KEY TAKEAWAYS)\n\n1. **Đại dịch \"Brain Rot\" (Nhũn não số):** Sự kiệt quệ sau khi lướt điện thoại là có thật. Các thuật toán video ngắn giật gân bòn rút dopamine và tàn phá khả năng tập trung sâu của một thế hệ.\n2. **Khổ nhất là tự quản lý chính mình:** Tự do không phải là làm việc tùy hứng. Người làm tự do đòi hỏi một kỷ luật thép để quản lý chính con người lười biếng và hay chống đối bên trong mình.\n3. **Chiếc bẫy \"Bận rộn ảo\" (Shallow Work):** Não bộ thường chọn làm những việc râu ria (dọn bàn, check mail, sắp xếp tài liệu) để né tránh công việc khó đòi hỏi tư duy sâu. Nhận diện bận rộn ảo là bước đầu để tỉnh thức.\n4. **Trì hoãn là vấn đề cảm xúc:** Bạn trì hoãn vì công việc khó kích hoạt cảm xúc lo âu, chán nản. Lướt mạng xã hội là cơ chế né tránh cảm xúc tiêu cực tạm thời nhưng tạo ra vòng lặp tội lỗi và làm kiệt quệ tinh thần.\n5. **Chủ nghĩa cầu toàn là sự hèn nhát:** Sợ sai, sợ thất bại khiến bạn không dám bắt đầu. Hãy nhớ: Hoàn thành luôn tốt hơn hoàn hảo. Một bản thảo dở tệ vẫn giá trị hơn một kiệt tác chỉ nằm trong đầu.\n6. **Bộ công cụ 4 bước Deep Work thực chiến:**\n   * *Mục tiêu tiến trình & Daily Highlight:* Chọn duy nhất 1 việc quan trọng nhất trong ngày để đưa não vào trạng thái đơn nhiệm.\n   * *Không gian tỉnh thức:* Tuyệt đối không làm việc trên giường; giữ tư thế ngồi tỉnh táo.\n   * *Quy tắc 2 phút & 5 phút:* Việc dưới 2 phút làm ngay; việc khó cam kết làm đúng 5 phút để kích hoạt đà quán tính tâm lý.\n   * *Định luật Parkinson & Brain Dump:* Tự tạo hạn định giả khắt khe để ép bản thân vào guồng; xả rác tâm trí bằng giấy bút để không bị phân tâm."
 },
   {
     "slug": "ban-khong-he-yeu-duoi",
